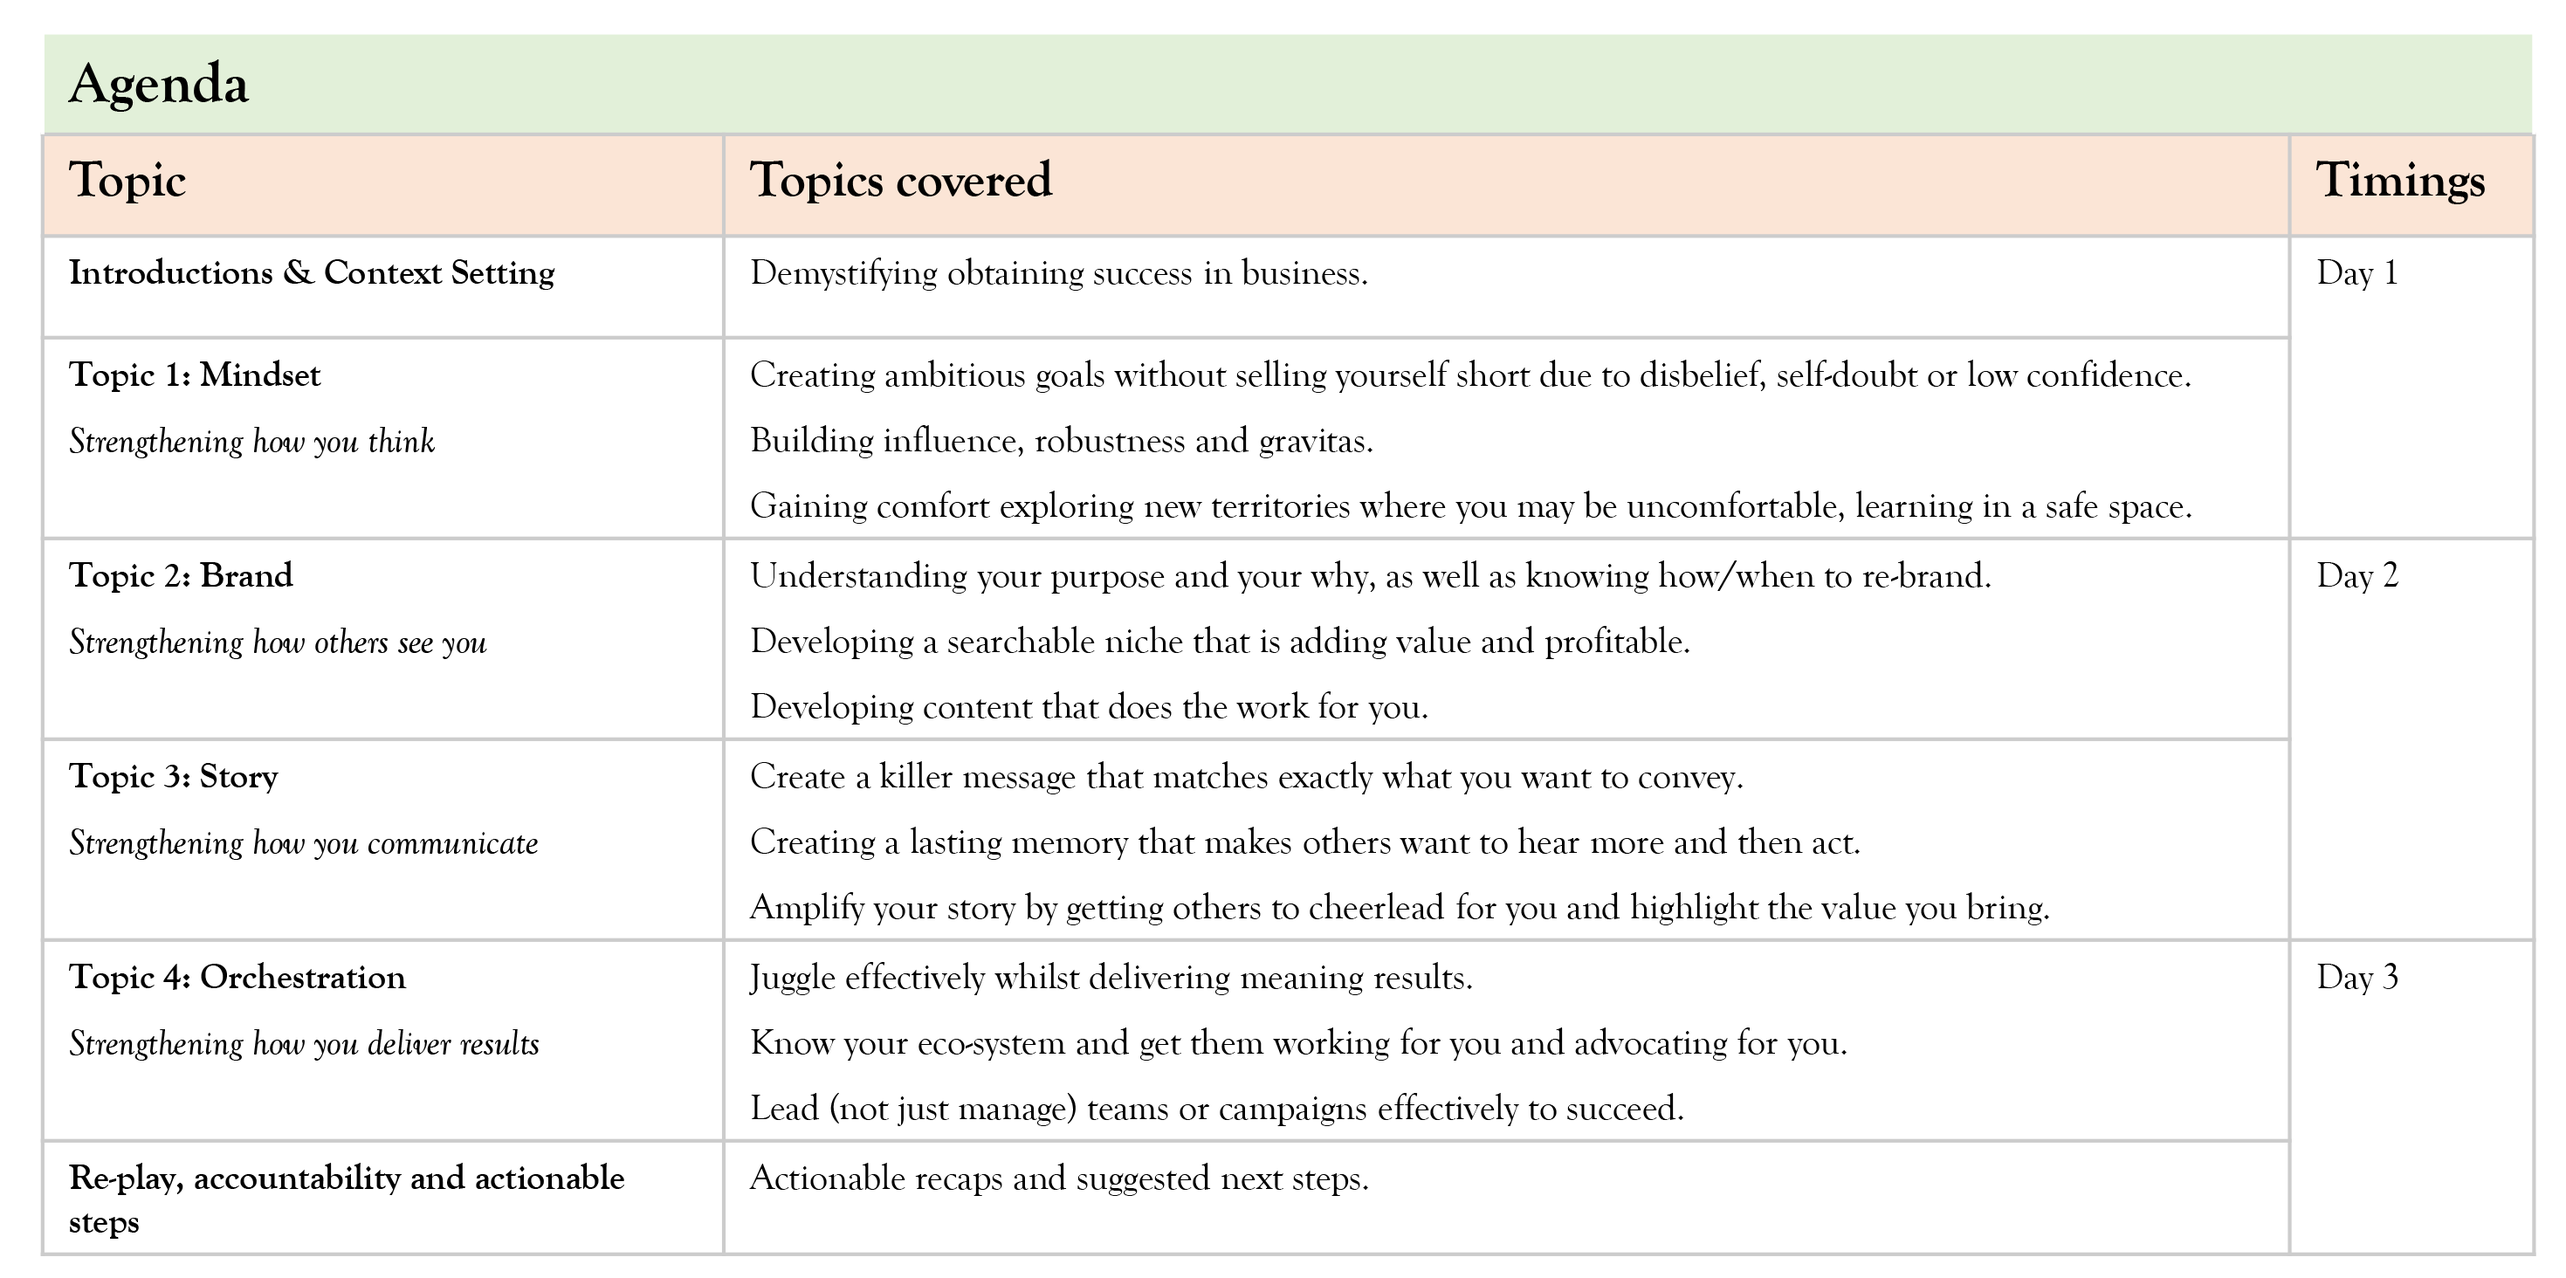
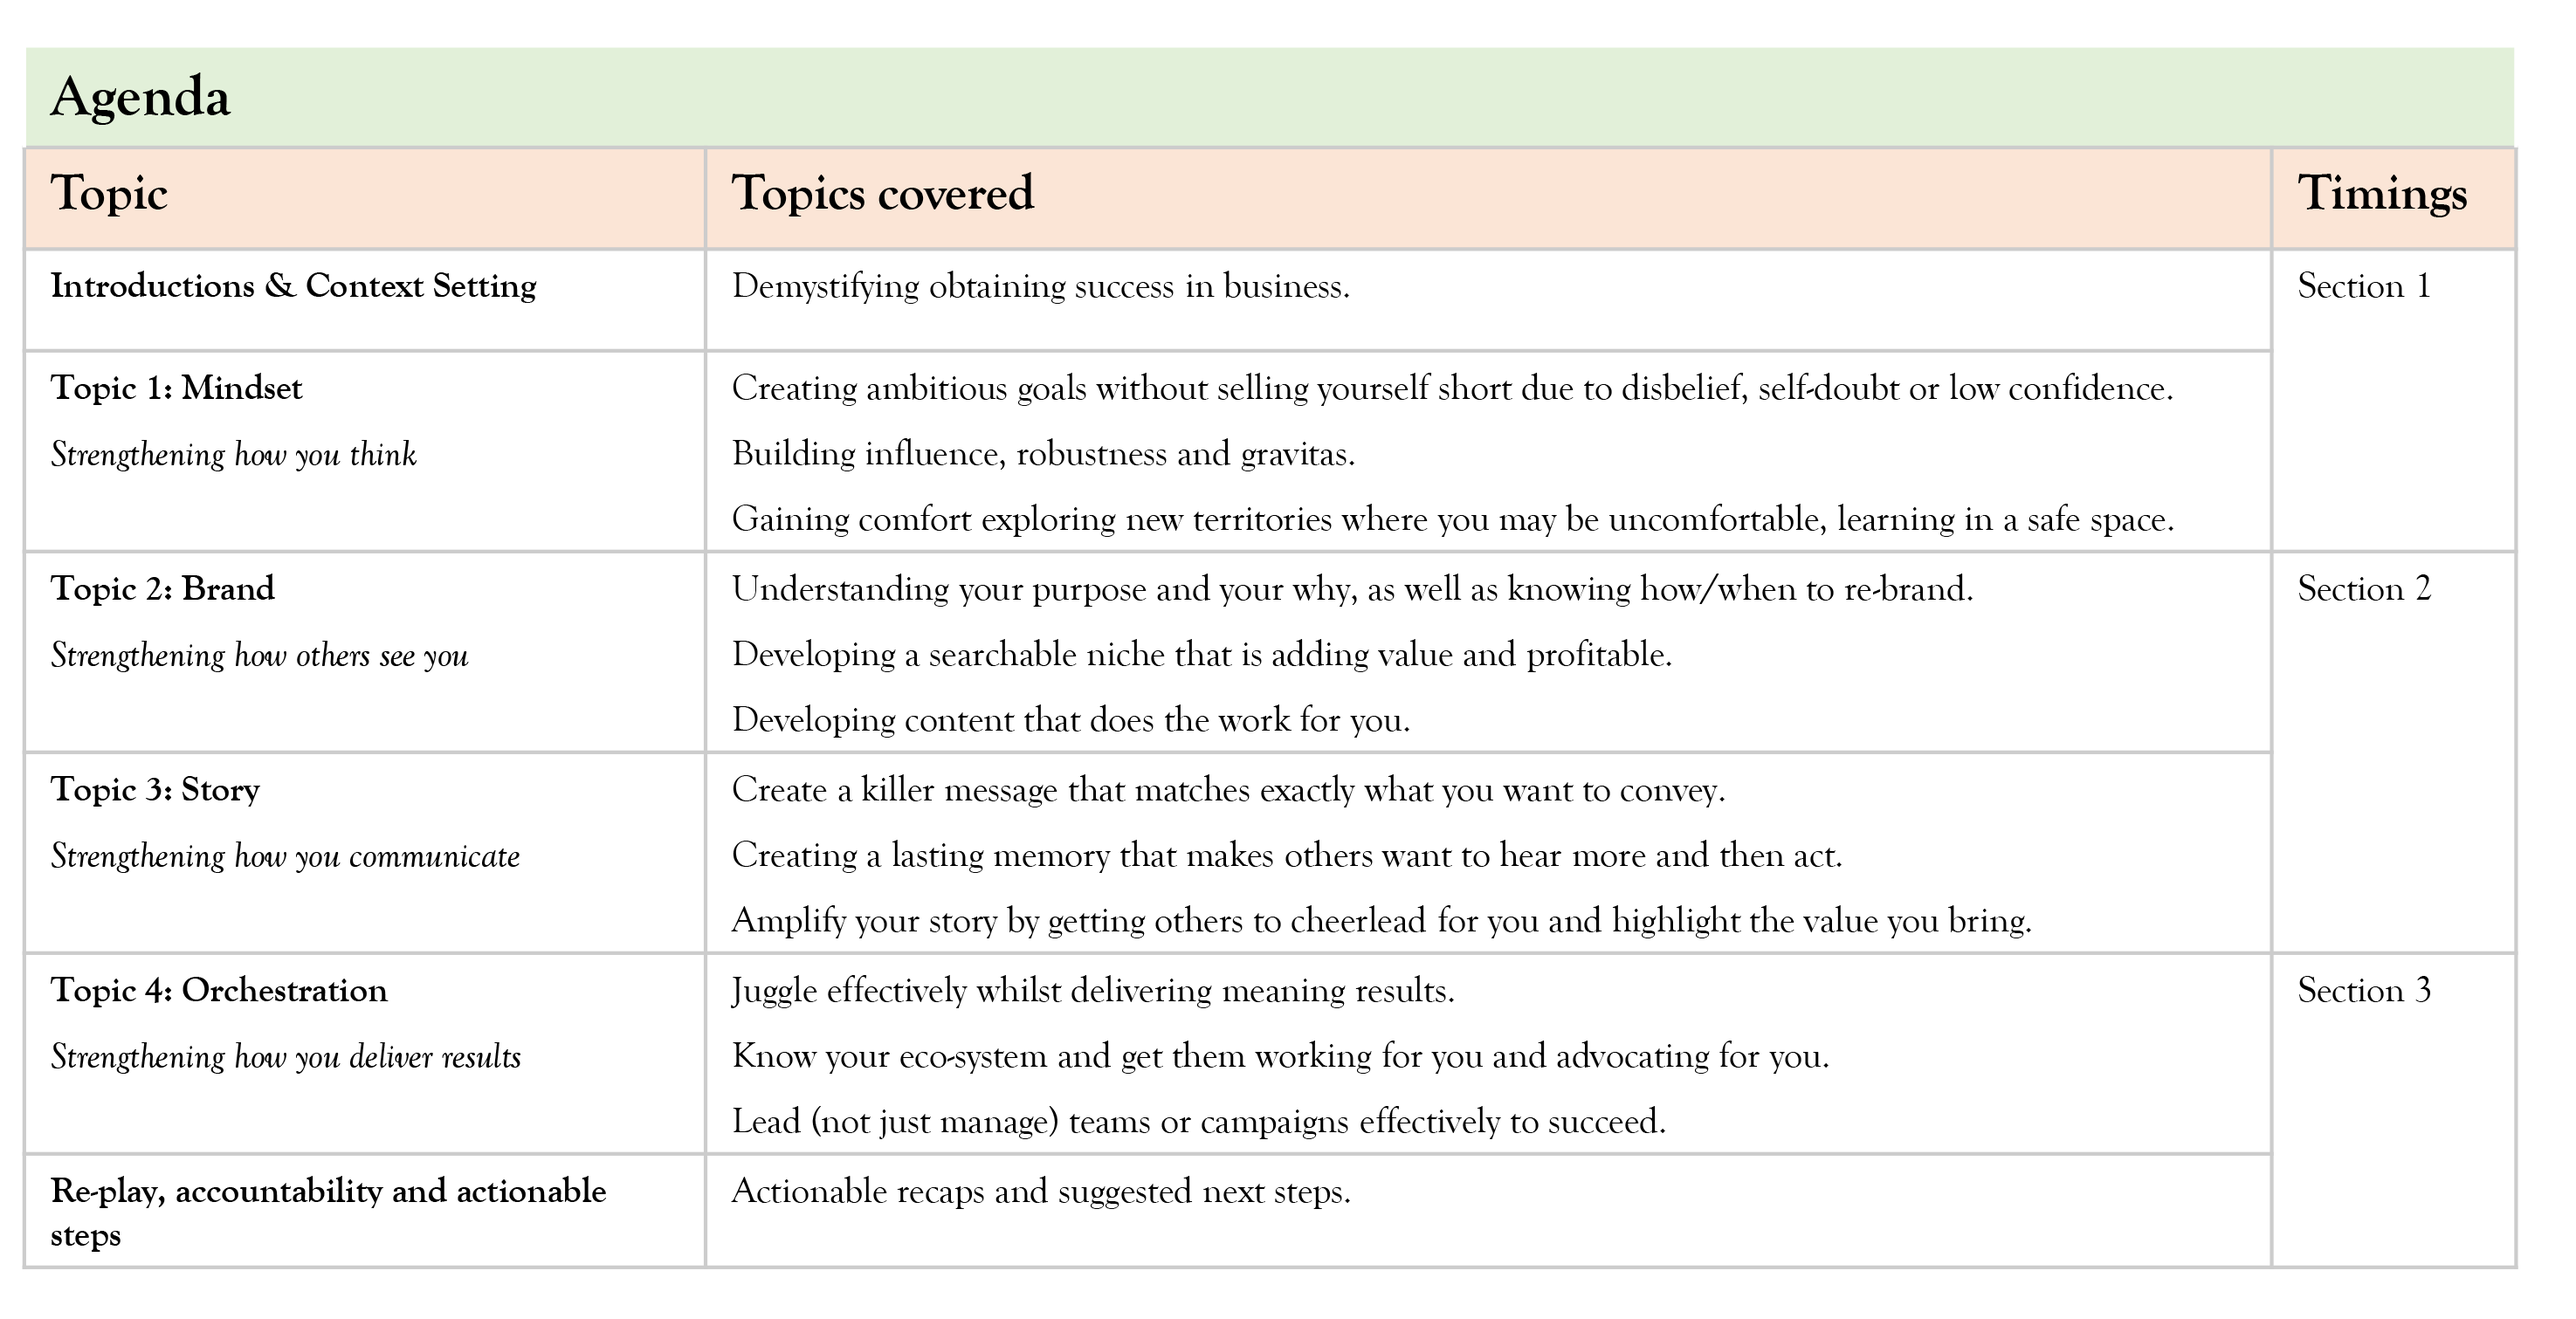
changes in images, html and css

Changed region(s): [[0.0, 0.0, 0.9908, 0.9836], [0.0, 0.4918, 0.8979, 0.6762], [0.867, 0.8607, 0.8979, 0.9221]]

diff --git a/wp-content/themes/fullybossed/style.css b/wp-content/themes/fullybossed/style.css
@@ -2284,7 +2284,9 @@ h2 mark {
 	margin: 0;
 	color#000
 }
-
+.elementor-element-4ba9295 > .elementor-container {
+	max-width: 1210px !important;
+}
 
 
 /* Responsive */

diff --git a/wp-content/themes/fullybossed/single-vlogs.php b/wp-content/themes/fullybossed/single-vlogs.php
@@ -19,6 +19,7 @@ $post_3rd_party=get_post_meta($post_id,'post_3rd_party',true);
 $post_3rd_party=isset($post_3rd_party[0]) ? $post_3rd_party[0]:'';
 $video_url_id=get_post_meta($post_id,'video_url',true);
 $video_url=wp_get_attachment_url($video_url_id);
+$video_external_url=get_post_meta($post_id,'video_external_url',true);
 if(empty($image_url)){
 
 	$image_url='https://fullybossed.com/wp-content/uploads/2021/04/insta-img.jpg';
@@ -58,13 +59,16 @@ $post_post_pillar=get_post_meta($post_id,'category_post_pillar',true);
 		</div>
 		<?php
 		}?>
-		<div class="col-sm-12">
-			<div class="custome-vlog-video mt-5">
-				<iframe width="100%" height="800px" src="https://www.youtube.com/embed/33Jk3_a0Eqc" title="YouTube video player" frameborder="0" allow="accelerometer; autoplay; clipboard-write; encrypted-media; gyroscope; picture-in-picture" allowfullscreen></iframe>
+		<?php if(!empty($video_external_url)){ ?>
+			<div class="col-sm-12">
+				<div class="custome-vlog-video mt-5">
+					<iframe width="100%" height="800px" webkitallowfullscreen mozallowfullscreen allowfullscreen src="<?php echo $video_external_url?>" title="YouTube video player" frameborder="0" allow="accelerometer; autoplay; clipboard-write; encrypted-media; gyroscope; picture-in-picture" allowfullscreen></iframe>
+				</div>
 			</div>
-		</div>
+
+		<?php
+		}?>
 	    <div class="col-sm-12">
-		   <!--<p><?php echo $post_content ?></p>-->
 		   <?php
 			if ( have_posts() ) :
 			while ( have_posts() ) : the_post();

diff --git a/wp-content/themes/fullybossed/template-part/booking-sessions.php b/wp-content/themes/fullybossed/template-part/booking-sessions.php
@@ -30,13 +30,12 @@
 		<div class="container">
 			<div class="dark up-h-booking text-center">
 				<h2><mark>Fully Bossed –The Academy</mark></h2>
-				<h4>Get ready to be transformed in our 3-day workshop</h4>
+				<h4>Get ready to be transformed</h4>
 			</div>
 			<div class="dark bown-p-booking text-center">
 				<!-- <h4>This Academy is aimed at:</h4> -->
 				<p>Utilising our Fully Bossed Blueprint, our Academy aims to help you get vital tips, tools and
-					insights to help you advance in your career by focusing on our 4 core topics. We'll bring this to
-					you over a 3 day period.</p>
+					insights to help you advance in your career by focusing on our 4 core topics. We'll bring you this over a 3 part agenda.</p>
 				<!-- <p>- Start-ups looking to effectively launch their business or advance it</p> -->
 			</div>
 			<br>
@@ -126,7 +125,7 @@
 								<div class="col-md-3 tablet text-right">
 									<div class="u-sitecolor-btn text-right">
 										<?php if($regular_price > $price){?>
-										<span style="text-decoration: line-through !important; color: #ff0000;"><b><?php echo CURRENCYSYMBOL.number_format($regular_price,2);?></b></span>
+										<span style="text-decoration: line-through !important; color: #ffd966;"><b><?php echo CURRENCYSYMBOL.number_format($regular_price,2);?></b></span>
 										<?php
 										}?>
 										<span><?php echo CURRENCYSYMBOL.number_format($price,2);?></span>

diff --git a/wp-content/themes/fullybossed/single.php b/wp-content/themes/fullybossed/single.php
@@ -8,7 +8,6 @@
  * @subpackage Twenty_Nineteen
  * @since Twenty Nineteen 1.0
  */
-
 get_header();
 global $post;
 $post_id=$post->ID;
@@ -29,7 +28,7 @@ $post_post_pillar=get_post_meta($post_id,'category_post_pillar',true);
 if(empty($image_url)){
 	$image_url='https://fullybossed.com/wp-content/uploads/2021/04/insta-img.jpg';
 }
-
+$tags=wp_get_post_tags($post_id);
 ?>
 <div class="content">
 	<div class="page-inner-title u-spacing ubg-grey">
@@ -47,22 +46,20 @@ if(empty($image_url)){
    <div class="row single-ping">
        <div class="single-p-img"><img src="<?php echo $image_url?>"></div>
 	   <div class="col-sm-12 text-center">
+	        <?php if(!empty($tags)){?> 
 			<div class="c-single-tags">
 				<ul>
+				<?php foreach($tags as $tag){?>
 					<li>
-						<p>Lorem Ipsum</p>
+						<p><?php echo $tag->name;?></p>
 					</li>
-					<li>
-						<p>Lorem Ipsum</p>
-					</li>
-					<li>
-						<p>Lorem Ipsum</p>
-					</li>
-					<li>
-						<p>Lorem Ipsum</p>
-					</li>
+				<?php 
+				}?>
+					
 				</ul>
 			</div>
+			<?php 
+			}?>
 		</div>
 	    <div class="col-sm-12">
 		   <p><?php //echo $post_content ?></p>
